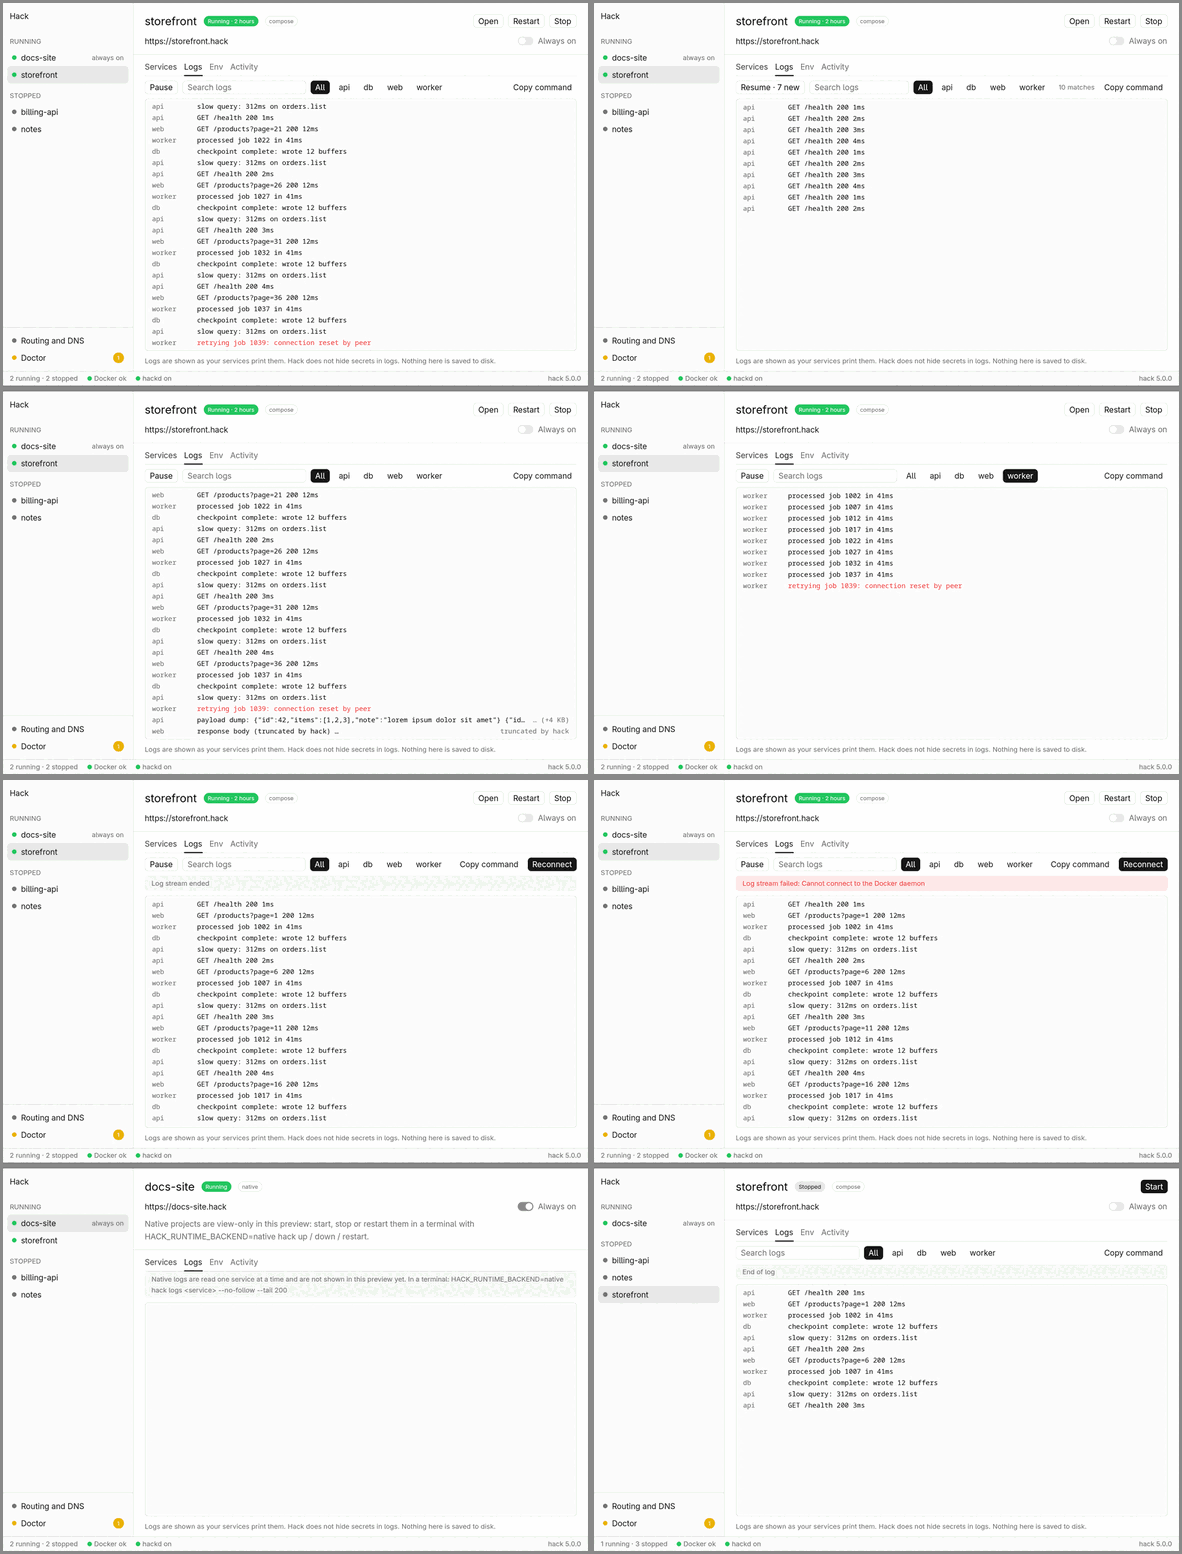
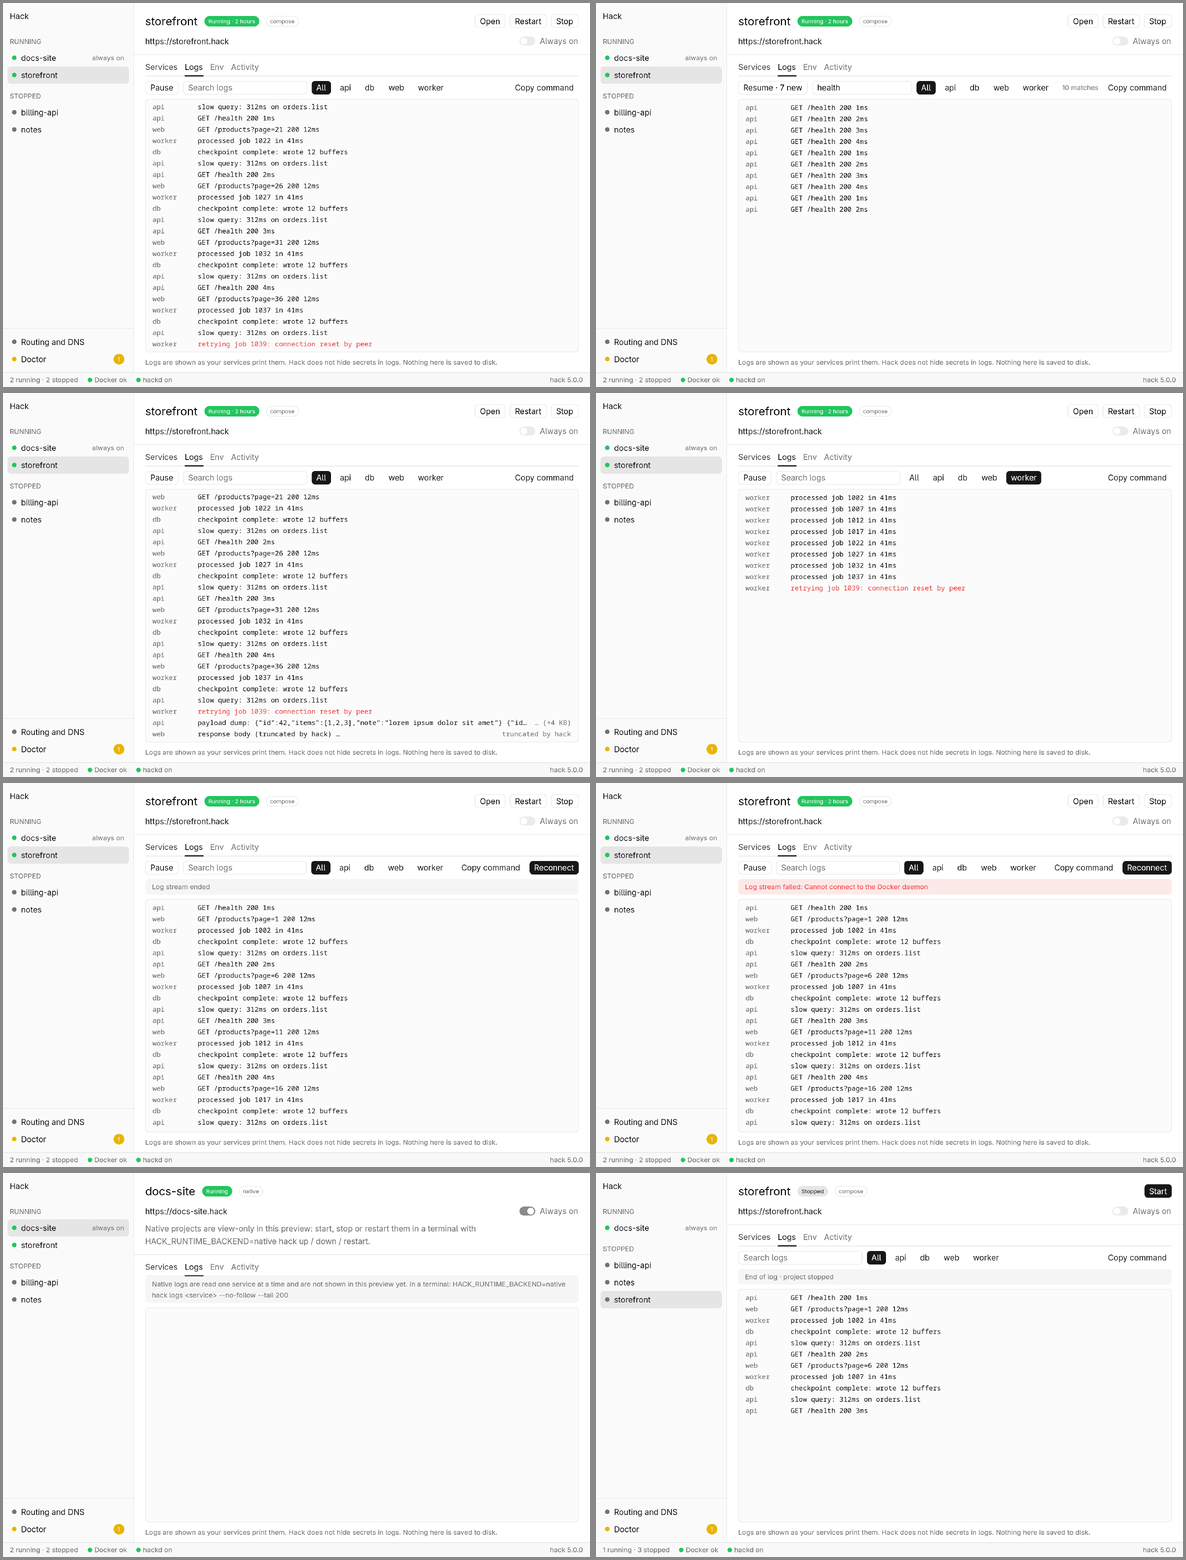
fix(desktop): drain log diagnostics and align fixture states

diff --git a/apps/desktop/core/src/runner.rs b/apps/desktop/core/src/runner.rs
@@ -295,6 +295,9 @@ impl CliRunner {
     /// `NotFound` or `Spawn`.
     pub fn stream_logs(&self, args: &[&str], path: Option<&Path>) -> Result<LogStream, RunError> {
         let mut child = self.spawn(args, path)?;
+        // Diagnostics must not fill the stderr pipe and block ndjson output.
+        // Drain concurrently with a bounded tail, as for finite CLI reads.
+        let _stderr = read_all(child.stderr.take(), Keep::Tail(STDERR_KEEP));
         let stdout = child.stdout.take();
         // Bounded: a reader that outruns the UI blocks, which in turn blocks
         // the CLI on its pipe, instead of queueing without limit.
@@ -727,7 +730,10 @@ mod tests {
             Self { dir }
         }
         fn runner(&self) -> CliRunner {
-            CliRunner::new(self.dir.join("hack")).with_env("HACK_HOME", &self.dir.to_string_lossy())
+            CliRunner::new(self.dir.join("hack"))
+                .with_env("HACK_HOME", &self.dir.to_string_lossy())
+                .with_env("HOME", &self.dir.to_string_lossy())
+                .with_env("HACK_DAEMON_AUTOSTART_DISABLE", "1")
         }
     }
 
@@ -847,6 +853,16 @@ mod tests {
             .run_json::<Value>(&["x"], None, Duration::from_millis(300));
         assert!(matches!(r, Err(RunError::Timeout { .. })), "{r:?}");
         assert!(started.elapsed() < Duration::from_secs(5));
+    }
+
+    #[test]
+    fn log_stream_drains_stderr_without_blocking_stdout() {
+        let f = FakeHack::new(
+            "head -c 2097152 /dev/zero >&2; echo '{\"type\":\"log\",\"entry\":{\"message\":\"after diagnostics\"}}'",
+        );
+        let s = f.runner().stream_logs(&["logs"], None).unwrap();
+        let event = s.next_timeout(T).expect("stderr must not block stdout");
+        assert_eq!(event.entry.unwrap().message, "after diagnostics");
     }
 
     #[test]

diff --git a/apps/desktop/app/src/logs_view.rs b/apps/desktop/app/src/logs_view.rs
@@ -63,8 +63,11 @@ impl LogsPane {
     }
 
     /// Show a fixture state (screenshots and `--logs-fixture`).
-    pub fn set_model(&mut self, model: LogsModel) {
+    pub fn set_model(&mut self, model: LogsModel, window: &mut Window, cx: &mut Context<HackApp>) {
         self.feed = None;
+        self.search.update(cx, |input, cx| {
+            input.set_value(model.search.clone(), window, cx);
+        });
         self.model = model;
         self.refresh_visible();
         if self.should_autoscroll() {
@@ -321,6 +324,15 @@ impl HackApp {
         }
 
         let banner = m.banner().map(|text| {
+            let stopped = self
+                .model
+                .detail()
+                .is_some_and(|d| d.state == hack_desktop_core::state::ProjectState::Stopped);
+            let text = if !m.follow && stopped && !unavailable {
+                format!("{text} · project stopped")
+            } else {
+                text
+            };
             let failed = matches!(m.state, StreamState::Failed { .. });
             div()
                 .mx_5()

diff --git a/apps/desktop/app/src/view.rs b/apps/desktop/app/src/view.rs
@@ -71,13 +71,18 @@ impl HackApp {
     }
 
     /// Fixtures: show the Logs tab in a designed state.
-    pub fn show_logs_fixture(&mut self, f: hack_desktop_core::logs::fixtures::LogsFixture) {
+    pub fn show_logs_fixture(
+        &mut self,
+        f: hack_desktop_core::logs::fixtures::LogsFixture,
+        window: &mut Window,
+        cx: &mut Context<Self>,
+    ) {
         use hack_desktop_core::logs::fixtures::{LogsFixture, model};
         if f == LogsFixture::Native {
             self.select("docs-site");
         }
         self.tab = 1;
-        self.logs.set_model(model(f));
+        self.logs.set_model(model(f), window, cx);
     }
 
     /// Synchronous refresh, for fixtures and screenshots.

diff --git a/apps/desktop/core/src/source.rs b/apps/desktop/core/src/source.rs
@@ -537,7 +537,10 @@ esac
         .unwrap();
         std::fs::set_permissions(&hack, std::fs::Permissions::from_mode(0o755)).unwrap();
         let src = LiveSource {
-            runner: CliRunner::new(&hack).with_env("HACK_HOME", &dir.to_string_lossy()),
+            runner: CliRunner::new(&hack)
+                .with_env("HACK_HOME", &dir.to_string_lossy())
+                .with_env("HOME", &dir.to_string_lossy())
+                .with_env("HACK_DAEMON_AUTOSTART_DISABLE", "1"),
             daemon: Some(DaemonClient::new(
                 dir.join("none.sock"),
                 Duration::from_millis(100),

diff --git a/apps/desktop/app/src/screenshots.rs b/apps/desktop/app/src/screenshots.rs
@@ -53,7 +53,7 @@ pub fn run(dir: &Path) {
                                 app.simulate_in_flight(a);
                             }
                             if let Some(l) = logs {
-                                app.show_logs_fixture(l);
+                                app.show_logs_fixture(l, window, cx);
                             }
                             app
                         })

diff --git a/apps/desktop/app/src/main.rs b/apps/desktop/app/src/main.rs
@@ -143,7 +143,7 @@ fn main() {
                     app.simulate_in_flight(a);
                 }
                 if let Some(l) = logs_fixture {
-                    app.show_logs_fixture(l);
+                    app.show_logs_fixture(l, window, cx);
                 }
                 app
             })

diff --git a/apps/desktop/README.md b/apps/desktop/README.md
@@ -67,6 +67,7 @@ degraded / stopping, failed-start, needs-attention):
 - Pause (reading continues, with an "N new" count), search, and a filter for one service (`hack logs <service>`).
 - Click any line to show it in full below the list (long or width-clipped lines); lines over 4 KB show how much is hidden.
 - "Log stream ended" and failures are shown distinctly, with Reconnect.
+- CLI stderr is drained concurrently with an 8 KB retained tail, so diagnostic output cannot block the log stream. Stream failure details come from ndjson error events and the exit status.
 - The buffer holds at most 10,000 lines and 8 MB (service and timestamp included); a single line is capped at 64 KB on intake. Memory only: nothing is written to disk and there is no copy-all.
 - Scrolling up pauses following. Every text field of an event is capped before it is queued (log message 64 KB, notice 4 KB, other fields 256 bytes), and events reach the UI in bounded batches through a 1,024-event queue, so queued text stays under about 70 MiB, so a very busy stream slows `hack logs` down instead of the window.
 - "Copy command" copies the equivalent `hack logs --path … [service]` for a terminal.
@@ -76,6 +77,8 @@ Fixtures: `--logs-fixture <state>` (`--list-fixtures` lists them). Boards:
 [light](screenshots/logs-light.png), [dark](screenshots/logs-dark.png). Row by row:
 following / paused with search, long lines / service filter, follow ended /
 failed, native / stopped.
+The paused-search fixture shows its active query in the search field. Finite
+reads for observed stopped projects include that state alongside the stream status.
 
 ## Not yet
 
